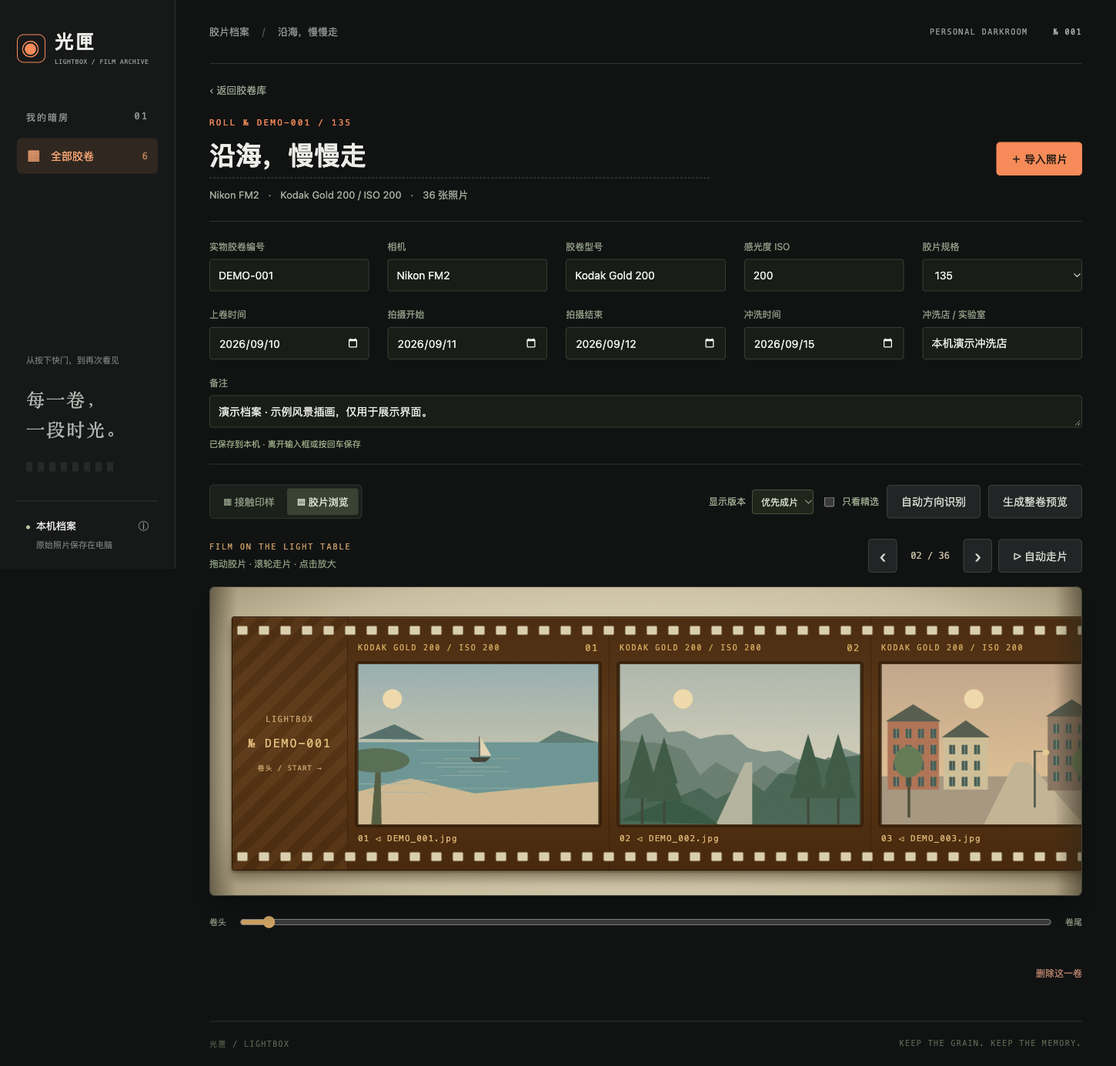
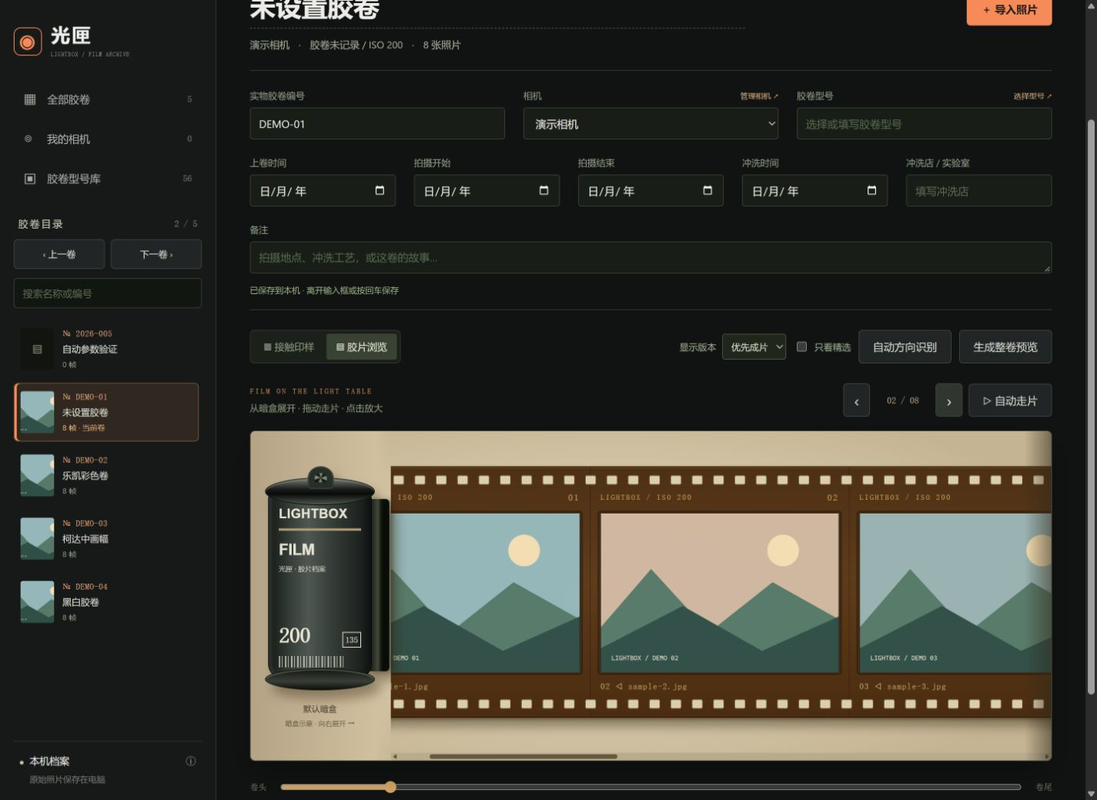
Link film browsing to illustrated cartridges and simplify roll metadata

diff --git a/public/app.js b/public/app.js
@@ -4,6 +4,7 @@ import { setupRollNavigation } from './roll-navigation.js';
 import { setupCameras } from './cameras.js';
 import {setupFilms} from './films.js';
 import {filmStocks} from './film-catalog.mjs';
+import {renderFilmCanister,filmPresentation} from './film-canister.mjs';
 import { sheetLayout, framePosition } from './sheet-layout.mjs';
 const $ = s => document.querySelector(s);
 let automaticOrientation=true;
@@ -36,7 +37,7 @@ function renderLibrary() {
   const rolls = library.rolls.filter(r => [r.title, r.camera, r.film, r.number, r.notes].join(' ').toLowerCase().includes(query));
   $('#collection-title').textContent = '全部胶卷';
   $('#visible-count').textContent = rolls.length + ' 卷';
-  $('#roll-grid').innerHTML = rolls.map(r => `<button class="roll-card" data-roll="${r.id}" aria-label="打开胶卷 ${esc(r.title)}"><div class="roll-cover">${r.photos.length ? `<img src="${imageUrl(r.photos[0])}" alt="${esc(r.title)}的封面" loading="lazy">` : `<span class="cover-empty">${esc(r.format || 'ROLL')}</span>`}<span class="cover-count">${String(r.photos.length).padStart(2,'0')} FRAMES</span></div><div class="card-body"><div class="card-top"><span class="serial">№ ${esc(r.number)}</span></div><h3>${esc(r.title)}</h3><p class="card-description">${esc(r.camera || '相机待补全')}<br>${esc(r.film || '胶卷型号待补全')}${r.iso ? ` / ISO ${esc(r.iso)}` : ''}</p><div class="card-date"><span>${esc(period(r))}</span><span>${esc(r.format || '规格待补全')}</span></div></div></button>`).join('');
+  $('#roll-grid').innerHTML = rolls.map(r => {const filmInfo=filmPresentation(r);return `<button class="roll-card" data-roll="${r.id}" aria-label="打开胶卷 ${esc(r.title)}"><div class="roll-cover">${r.photos.length ? `<img src="${imageUrl(r.photos[0])}" alt="${esc(r.title)}的封面" loading="lazy">` : `<span class="cover-empty">${esc(filmInfo.format || 'ROLL')}</span>`}<span class="cover-count">${String(r.photos.length).padStart(2,'0')} FRAMES</span></div><div class="card-body"><div class="card-top"><span class="serial">№ ${esc(r.number)}</span></div><h3>${esc(r.title)}</h3><p class="card-description">${esc(r.camera || '相机待补全')}<br>${esc(r.film || '胶卷型号待补全')}${filmInfo.iso ? ` / ISO ${esc(filmInfo.iso)}` : ''}</p><div class="card-date"><span>${esc(period(r))}</span><span>${esc(filmInfo.format || '规格待补全')}</span></div></div></button>`;}).join('');
   $('#library-empty').hidden = library.rolls.length > 0;
   if (library.rolls.length && !rolls.length) $('#roll-grid').innerHTML = '<p class="muted">没有匹配的胶卷。试试其他关键词或分类。</p>';
   $('#film-options').innerHTML = [...new Set([...filmStocks.map(f=>f.name),...library.rolls.map(r => r.film).filter(Boolean)])].map(v => `<option value="${esc(v)}"></option>`).join('');
@@ -54,9 +55,10 @@ function showCameras() {
 }
 function visiblePhotos() { return current()?.photos.filter(p => !$('#star-filter').checked || p.starred) || []; }
 function renderArchiveLabels(r) {
-  $('#breadcrumb').textContent=r.title;$('#roll-number').textContent=`ROLL № ${r.number} / ${r.format||'规格待补全'}`;
+  const filmInfo=filmPresentation(r);
+  $('#breadcrumb').textContent=r.title;$('#roll-number').textContent=`ROLL № ${r.number} / ${filmInfo.format||'规格待补全'}`;
   $('#roll-title').setAttribute('aria-label',r.title);
-  $('#roll-summary').innerHTML=`<span>${esc(r.camera||'相机未记录')}</span><span>·</span><span>${esc(r.film||'胶卷未记录')}${r.iso?' / ISO '+esc(r.iso):''}</span><span>·</span><span>${r.photos.length} 张照片</span>`;
+  $('#roll-summary').innerHTML=`<span>${esc(r.camera||'相机未记录')}</span><span>·</span><span>${esc(r.film||'胶卷未记录')}${filmInfo.iso?' / ISO '+esc(filmInfo.iso):''}</span><span>·</span><span>${r.photos.length} 张照片</span>`;
 }
 function renderDetail() {
   const r = current(); if (!r) return;
@@ -67,13 +69,14 @@ function renderDetail() {
 }
 function renderPhotos() {
   const r = current(); if (!r) return;
-  const photos = visiblePhotos();
+  const photos = visiblePhotos(),filmInfo=filmPresentation(r);
+  renderFilmCanister($('.film-stage'),r);
   $('#photo-empty').hidden = r.photos.length > 0;
   $('#photo-hint').hidden = !r.photos.length || view !== 'grid';
   $('#photo-grid').hidden = view !== 'grid' || !r.photos.length;
   $('#film-view').hidden = view !== 'film' || !r.photos.length;
   $('#photo-grid').innerHTML = photos.map((p, i) => `<article class="photo-card" draggable="${!uploadBusy}" data-photo="${p.id}" style="animation-delay:${Math.min(i,10)*25}ms"><button class="photo-open" data-open="${p.id}" aria-label="查看第 ${r.photos.indexOf(p)+1} 帧 ${esc(p.name)}"><img src="${imageUrl(p)}" alt="${esc(p.name)}" loading="lazy"></button><div class="photo-caption"><span>${String(r.photos.indexOf(p)+1).padStart(2,'0')} / ${esc(p.name)}</span><button class="star-button ${p.starred ? 'selected' : ''}" data-star="${p.id}" aria-label="${p.starred ? '取消' : '设为'}精选 ${esc(p.name)}" aria-pressed="${p.starred}">${p.starred ? '★' : '☆'}</button></div></article>`).join('');
-  $('#film-strip').innerHTML = `<div class="film-ribbon"><div class="film-leader" aria-hidden="true"><span>LIGHTBOX</span><strong>№ ${esc(r.number)}</strong><small>卷头 / START →</small></div>${photos.map(p => `<div class="film-frame" data-frame="${r.photos.indexOf(p)+1}"><span class="film-edge-label">${esc(r.film || 'LIGHTBOX')}${r.iso ? ' / ISO ' + esc(r.iso) : ''} <b>${String(r.photos.indexOf(p)+1).padStart(2,'0')}</b></span><button data-open="${p.id}" aria-label="放大第 ${r.photos.indexOf(p)+1} 帧 ${esc(p.name)}"><img src="${imageUrl(p)}" alt="${esc(p.name)}" loading="lazy" draggable="false"></button><span class="film-frame-caption">${String(r.photos.indexOf(p)+1).padStart(2,'0')} ◁ ${esc(p.name)}</span></div>`).join('')}<div class="film-leader film-tail" aria-hidden="true"><span>LIGHTBOX</span><strong>← END</strong><small>${photos.length} FRAMES</small></div></div>`;
+  $('#film-strip').innerHTML = `<div class="film-ribbon"><div class="film-leader" aria-hidden="true"><span>LIGHTBOX</span><strong>№ ${esc(r.number)}</strong><small>卷头 / START →</small></div>${photos.map(p => `<div class="film-frame" data-frame="${r.photos.indexOf(p)+1}"><span class="film-edge-label">${esc(r.film || 'LIGHTBOX')}${filmInfo.iso ? ' / ISO ' + esc(filmInfo.iso) : ''} <b>${String(r.photos.indexOf(p)+1).padStart(2,'0')}</b></span><button data-open="${p.id}" aria-label="放大第 ${r.photos.indexOf(p)+1} 帧 ${esc(p.name)}"><img src="${imageUrl(p)}" alt="${esc(p.name)}" loading="lazy" draggable="false"></button><span class="film-frame-caption">${String(r.photos.indexOf(p)+1).padStart(2,'0')} ◁ ${esc(p.name)}</span></div>`).join('')}<div class="film-leader film-tail" aria-hidden="true"><span>LIGHTBOX</span><strong>← END</strong><small>${photos.length} FRAMES</small></div></div>`;
   $('#film-seek').max = Math.max(0, photos.length - 1); $('#film-seek').disabled = !photos.length;
   requestAnimationFrame(updateFilmPosition);
   if (!photos.length && r.photos.length) { $('#photo-grid').innerHTML = '<p class="muted">还没有精选照片，点击照片下方的星标来添加。</p>'; $('#film-strip').innerHTML = '<p class="muted">这一卷还没有精选照片。</p>'; }
@@ -84,12 +87,15 @@ function filmFrames() { return [...$('#film-strip').querySelectorAll('.film-fram
 function nearestFilmIndex() {
   const strip = $('#film-strip'), ribbon = strip.querySelector('.film-ribbon'), frames = filmFrames();
   if (!frames.length) return 0;
+  if(strip.scrollLeft<=1)return 0;
+  if(strip.scrollLeft>=strip.scrollWidth-strip.clientWidth-1)return frames.length-1;
   const center = strip.scrollLeft + strip.clientWidth / 2 - ribbon.offsetLeft;
   return frames.reduce((best, frame, i) => Math.abs(frame.offsetLeft + frame.offsetWidth / 2 - center) < Math.abs(frames[best].offsetLeft + frames[best].offsetWidth / 2 - center) ? i : best, 0);
 }
 function updateFilmPosition() {
   const frames = filmFrames(), index = nearestFilmIndex(), r = current();
   if (!r) return;
+  $('.film-stage').style.setProperty('--spool-turn',`${$('#film-strip').scrollLeft / 5}deg`);
   $('#film-position').textContent = frames.length ? `${String(frames[index].dataset.frame).padStart(2,'0')} / ${String(r.photos.length).padStart(2,'0')}` : '无精选照片';
   $('#film-seek').value = index; $('#film-seek').setAttribute('aria-valuetext', frames.length ? `第 ${frames[index].dataset.frame} 帧` : '无照片');
   $('#film-prev').disabled = !frames.length || index === 0; $('#film-next').disabled = !frames.length || index === frames.length - 1;
@@ -178,7 +184,7 @@ function confirmAction(title, description) {
 function loadImage(src) { return new Promise((resolve,reject) => { const img = new Image(); img.onload = () => resolve(img); img.onerror = () => reject(new Error('照片读取失败，请重新载入后再导出。')); img.src = src; }); }
 function fitText(ctx, text, max) { let t = text; while (ctx.measureText(t).width > max && t.length) t = t.slice(0,-1); return t === text ? t : t + '…'; }
 async function buildSheet() {
-  const token = ++sheetGeneration, r = current(); if (!r) return;
+  const token = ++sheetGeneration, r = current(); if (!r) return; const filmInfo=filmPresentation(r);
   const format = $('#sheet-format').value, light = $('#sheet-theme').value === 'light';
   $('#sheet-preview').classList.toggle('print-format', format !== 'free');
   $('#sheet-format-hint').textContent = format === '3:2' ? '3:2 横向，适合常规照片打印；照片完整显示，留出四周边距。' : format === '16:9' ? '16:9 横向，适合宽幅画面；打印时请选择同样比例或保留白边。' : '高度随照片数量调整，适合查阅整卷接触印样。';
@@ -191,7 +197,7 @@ async function buildSheet() {
     const bg = light ? '#f3f2ec' : '#101310', fg = light ? '#252b23' : '#e5e9dc', muted = light ? '#687260' : '#a4b392', gold = light ? '#78663e' : '#c3ab6d';
     ctx.fillStyle = bg; ctx.fillRect(0,0,width,height); ctx.fillStyle = gold; ctx.font = '22px monospace'; ctx.fillText('LIGHTBOX / CONTACT SHEET',margin,65); ctx.textAlign = 'right'; ctx.fillText(`ROLL № ${r.number} / ${r.photos.length} FRAMES`,width-margin,65); ctx.textAlign='left';
     ctx.fillStyle = fg; ctx.font = `bold ${fixed ? 48 : 58}px sans-serif`; ctx.fillText(fitText(ctx,r.title,width-margin*2),margin,fixed ? 122 : 150);
-    ctx.fillStyle = muted; ctx.font = `${fixed ? 23 : 27}px sans-serif`; ctx.fillText(fitText(ctx,`${r.camera || '相机未记录'}  /  ${r.film || '胶卷未记录'}${r.iso ? '  /  ISO ' + r.iso : ''}  /  ${r.format || '规格待补全'}`,width-margin*2),margin,fixed ? 165 : 204);
+    ctx.fillStyle = muted; ctx.font = `${fixed ? 23 : 27}px sans-serif`; ctx.fillText(fitText(ctx,`${r.camera || '相机未记录'}  /  ${r.film || '胶卷未记录'}${filmInfo.iso ? '  /  ISO ' + filmInfo.iso : ''}  /  ${filmInfo.format || '规格待补全'}`,width-margin*2),margin,fixed ? 165 : 204);
     ctx.font = '22px sans-serif'; ctx.fillText(fitText(ctx,`${r.shotStart || r.shotEnd ? '拍摄 ' : ''}${period(r)}    上卷 ${date(r.loadedAt)}    冲洗 ${date(r.developedAt)}${r.lab ? '    '+r.lab : ''}`,width-margin*2),margin,fixed ? 201 : 251);
     for (let i=0;i<r.photos.length;i++) {
       if (token !== sheetGeneration) return;
@@ -226,6 +232,7 @@ $('#film-prev').onclick = () => scrollFilmTo(nearestFilmIndex() - 1);
 $('#film-next').onclick = () => scrollFilmTo(nearestFilmIndex() + 1);
 $('#film-seek').oninput = e => scrollFilmTo(Number(e.target.value), true, false);
 $('#film-strip').addEventListener('scroll', updateFilmPosition, {passive:true});
+new ResizeObserver(()=>{if(view==='film')updateFilmPosition();}).observe($('#film-strip'));
 $('#film-strip').addEventListener('keydown', e => { if(e.target!==e.currentTarget)return; if(['ArrowLeft','ArrowRight','Home','End'].includes(e.key)){e.preventDefault();scrollFilmTo(e.key==='Home'?0:e.key==='End'?filmFrames().length-1:nearestFilmIndex()+(e.key==='ArrowRight'?1:-1),true,e.key.startsWith('Arrow'));} });
 $('#play-film').onclick = playFilm; $('#film-strip').onwheel = e => { if(Math.abs(e.deltaY)>Math.abs(e.deltaX)) { e.preventDefault(); $('#film-strip').scrollLeft += e.deltaY; stopFilm(); } };
 let filmDrag = null, suppressFilmClick = false;

diff --git a/public/index.html b/public/index.html
@@ -43,8 +43,8 @@
           <label>实物胶卷编号<input name="number" required maxlength="160" placeholder="填写编号"></label>
           <label><span class="camera-field-heading">相机<button type="button" aria-label="管理我的相机" data-manage-cameras>管理相机 ↗</button></span><select name="camera" aria-label="相机" data-camera-select><option value="">暂未记录 · 选择相机</option></select></label>
           <label><span class="camera-field-heading">胶卷型号<button type="button" data-choose-film="inline" aria-label="选择当前胶卷型号">选择型号 ↗</button></span><input name="film" maxlength="160" placeholder="选择或填写胶卷型号" list="film-options"></label>
-          <label>感光度 ISO<input name="iso" inputmode="numeric" maxlength="160" placeholder="填写 ISO"></label>
-          <label>胶片规格<select name="format"><option value="">选择规格</option><option>135</option><option>120</option><option>110</option><option>大画幅</option><option>其他</option></select></label>
+          <input type="hidden" name="iso">
+          <input type="hidden" name="format">
         </div>
         <div class="film-record-preview" data-film-preview="inline" hidden></div>
         <div class="archive-fields archive-dates">
@@ -63,7 +63,7 @@
       <div id="import-progress" class="progress-wrap" hidden><span id="progress-label"></span><progress id="progress-bar" value="0" max="100"></progress></div>
       <div id="photo-empty" class="photo-empty"><div class="eyebrow">ADD YOUR SCANS</div><h2>导入这一卷的照片</h2><p>选择照片或把文件拖到这里，<br>按文件名自然排序，原始照片完整保留。</p><button class="secondary" id="empty-import">选择扫描照片</button><small>支持 TIFF、BMP、JPG、PNG、WebP、GIF，每张不超过 80 MB；THM 自动忽略</small></div>
       <div id="photo-grid" class="photo-grid"></div>
-      <div id="film-view" class="film-view" hidden><div class="film-control"><div><span class="film-mode-label">FILM ON THE LIGHT TABLE</span><span>拖动胶片 · 滚轮走片 · 点击放大</span></div><div class="button-group"><button id="film-prev" class="secondary" aria-label="前一帧胶片">‹</button><strong id="film-position" aria-live="polite">01 / 01</strong><button id="film-next" class="secondary" aria-label="后一帧胶片">›</button><button id="play-film" class="secondary">▷ 自动走片</button></div></div><div class="film-stage"><div id="film-strip" class="film-strip" tabindex="0" aria-label="横向胶片照片"></div></div><div class="film-scrubber"><span>卷头</span><input id="film-seek" type="range" min="0" max="0" value="0" step="1" aria-label="定位胶片帧"><span>卷尾</span></div></div>
+      <div id="film-view" class="film-view" hidden><div class="film-control"><div><span class="film-mode-label">FILM ON THE LIGHT TABLE</span><span>从暗盒展开 · 拖动走片 · 点击放大</span></div><div class="button-group"><button id="film-prev" class="secondary" aria-label="前一帧胶片">‹</button><strong id="film-position" aria-live="polite">01 / 01</strong><button id="film-next" class="secondary" aria-label="后一帧胶片">›</button><button id="play-film" class="secondary">▷ 自动走片</button></div></div><div class="film-stage"><div class="film-canister-mount"></div><div id="film-strip" class="film-strip" tabindex="0" aria-label="横向胶片照片"></div></div><div class="film-scrubber"><span>卷头</span><input id="film-seek" type="range" min="0" max="0" value="0" step="1" aria-label="定位胶片帧"><span>卷尾</span></div></div>
       <p id="photo-hint" class="photo-hint" hidden>点击照片放大 · 拖动照片调整帧序 · 星标保留精选</p>
       <button id="delete-roll" class="danger-text">删除这一卷</button>
     </section>
@@ -79,7 +79,7 @@
   </main>
   <input type="file" id="photo-input" multiple accept=".tif,.tiff,.bmp,.jpg,.jpeg,.png,.webp,.gif,image/tiff,image/bmp,image/jpeg,image/png,image/webp,image/gif" hidden>
   <dialog id="roll-dialog"><form id="roll-form"><div class="dialog-heading"><div><div class="eyebrow">ROLL INFORMATION</div><h2 id="form-title">新建胶卷档案</h2></div><button type="button" class="icon-button close-dialog" aria-label="关闭">×</button></div>
-    <div class="form-grid"><label class="full">胶卷名称 <span>*</span><input name="title" required maxlength="160" placeholder="例如：秋天的散步"></label><label>实物胶卷编号 <span>*</span><input name="number" required maxlength="160" placeholder="例如：2026-001"></label><label><span class="camera-field-heading">相机<button type="button" aria-label="管理我的相机" data-manage-cameras>登记 / 管理 ↗</button></span><select name="camera" aria-label="新胶卷相机" data-camera-select><option value="">暂未记录 · 选择相机</option></select></label><label><span class="camera-field-heading">胶卷型号<button type="button" data-choose-film="new" aria-label="选择新胶卷型号">选择型号 ↗</button></span><input name="film" maxlength="160" placeholder="选择或填写胶卷型号" list="film-options"></label><label>感光度 ISO<input name="iso" inputmode="numeric" placeholder="200" maxlength="160"></label><label>胶片规格<select name="format"><option value="">待补全</option><option>135</option><option>120</option><option>110</option><option>大画幅</option><option>其他</option></select></label><label>上卷时间<input name="loadedAt" type="date"></label><label>冲洗时间<input name="developedAt" type="date"></label><label>拍摄开始<input name="shotStart" type="date"></label><label>拍摄结束<input name="shotEnd" type="date"></label><label class="full">冲洗店 / 实验室<input name="lab" placeholder="这卷在哪里冲洗？" maxlength="160"></label><label class="full">备注<textarea name="notes" rows="3" maxlength="4000" placeholder="拍摄地点、冲洗工艺，或这卷的故事…"></textarea></label></div><div class="film-record-preview" data-film-preview="new" hidden></div><p id="form-error" role="alert" class="form-error"></p><div class="dialog-actions"><button type="button" class="secondary close-dialog">取消</button><button class="primary" type="submit" id="save-roll">保存档案</button></div>
+    <div class="form-grid"><label class="full">胶卷名称 <span>*</span><input name="title" required maxlength="160" placeholder="例如：秋天的散步"></label><label>实物胶卷编号 <span>*</span><input name="number" required maxlength="160" placeholder="例如：2026-001"></label><label><span class="camera-field-heading">相机<button type="button" aria-label="管理我的相机" data-manage-cameras>登记 / 管理 ↗</button></span><select name="camera" aria-label="新胶卷相机" data-camera-select><option value="">暂未记录 · 选择相机</option></select></label><label><span class="camera-field-heading">胶卷型号<button type="button" data-choose-film="new" aria-label="选择新胶卷型号">选择型号 ↗</button></span><input name="film" maxlength="160" placeholder="选择或填写胶卷型号" list="film-options"></label><input type="hidden" name="iso"><input type="hidden" name="format"><label>上卷时间<input name="loadedAt" type="date"></label><label>冲洗时间<input name="developedAt" type="date"></label><label>拍摄开始<input name="shotStart" type="date"></label><label>拍摄结束<input name="shotEnd" type="date"></label><label class="full">冲洗店 / 实验室<input name="lab" placeholder="这卷在哪里冲洗？" maxlength="160"></label><label class="full">备注<textarea name="notes" rows="3" maxlength="4000" placeholder="拍摄地点、冲洗工艺，或这卷的故事…"></textarea></label></div><div class="film-record-preview" data-film-preview="new" hidden></div><p id="form-error" role="alert" class="form-error"></p><div class="dialog-actions"><button type="button" class="secondary close-dialog">取消</button><button class="primary" type="submit" id="save-roll">保存档案</button></div>
   </form></dialog>
 <datalist id="film-options"></datalist>
   <dialog id="viewer-dialog" class="viewer-dialog"><div class="viewer-top"><span id="viewer-label"></span><button id="viewer-close" class="icon-button" aria-label="关闭照片">×</button></div><div class="viewer-image"><button id="viewer-prev" class="icon-button" aria-label="上一张">‹</button><img id="viewer-img" alt=""><button id="viewer-next" class="icon-button" aria-label="下一张">›</button></div><p id="viewer-error" role="status" class="muted"></p><div class="viewer-bottom"><div><span id="viewer-info"></span><label class="version-choice">查看版本<select id="viewer-version" aria-label="查看照片版本"></select></label></div><div class="button-group"><button id="viewer-star" class="secondary">☆ 精选</button><button id="viewer-rotate" class="secondary">↻ 旋转</button><a id="download-original" class="secondary" download>下载原图</a><button id="delete-photo" class="danger-text">删除照片</button></div></div></dialog>

diff --git a/public/style.css b/public/style.css
@@ -102,3 +102,38 @@ body.viewing-roll{--side:284px}
 .camera-form-hint{font-size:12px;line-height:1.8}.camera-dialog textarea{font-size:13px}.camera-dialog .form-grid{margin-top:24px}
 @media(max-width:1000px){.camera-grid{grid-template-columns:minmax(0,1fr)}.camera-overview{gap:22px;flex-wrap:wrap}.camera-overview>p{margin:0;width:100%}}
 @media(max-width:760px){.camera-overview{gap:14px;justify-content:space-between}.camera-overview strong{font-size:27px}.camera-overview span{font-size:10px}.camera-overview>div{gap:6px}.camera-card{padding:20px}.camera-card h2{font-size:22px}.camera-field-heading button{font-size:10px}.camera-dialog .form-grid input,.camera-dialog .form-grid select,.camera-dialog .form-grid textarea{font-size:16px}#camera-dialog .dialog-actions{position:sticky;bottom:-28px;background:#1c211af5;border-top:1px solid var(--border);padding-top:15px}}
+/* A fixed cartridge feeds the moving ribbon through its felt-lined mouth. */
+.archive-basics{grid-template-columns:repeat(3,minmax(0,1fr))}
+.film-stage{--canister-colour:#343d38;--canister-ink:#e8e4d3;--canister-accent:#b8a072;--spool-turn:0deg;--cartridge-space:184px;background:radial-gradient(ellipse at 45% 50%,#e9dfc3,#c4b493 85%);isolation:isolate}
+.film-stage:before{width:var(--cartridge-space);z-index:4;background:linear-gradient(90deg,#b5a385,#d0c09f 88%,transparent)}
+.film-stage .film-strip{margin-left:var(--cartridge-space);padding:46px 28px 46px 0;background:transparent;min-width:0;position:relative;z-index:1;scroll-padding-inline:15px}
+.film-stage .film-strip:before,.film-stage .film-strip:after{display:none}
+.film-stage .film-ribbon{border-radius:0 7px 7px 0;animation:cartridge-unroll .85s cubic-bezier(.16,.7,.24,1) both}
+.film-stage .film-leader:not(.film-tail){flex-basis:65px;width:65px;padding-inline:6px;letter-spacing:1px}
+.film-stage .film-leader:not(.film-tail)>span{writing-mode:vertical-rl}
+.film-stage .film-leader:not(.film-tail)>strong,.film-stage .film-leader:not(.film-tail)>small{display:none}
+.film-canister-mount{position:absolute;left:19px;top:50%;transform:translateY(-50%);width:164px;height:340px;z-index:5;pointer-events:none}
+.film-canister{position:relative;width:144px;height:302px;filter:drop-shadow(8px 12px 7px #35240e65)}
+.canister-body{position:absolute;inset:31px 4px 24px;border-radius:12px 12px 18px 18px;background:linear-gradient(90deg,#0009,transparent 20%,#fff2 38%,transparent 62%,#0009),var(--canister-colour);border:1px solid #0009;box-shadow:inset 3px 0 5px #fff2,inset -6px 0 9px #0005;color:var(--canister-ink);padding:20px 13px 13px;display:flex;flex-direction:column;overflow:hidden}
+.canister-brand{font:bold 17px/1.2 Arial,sans-serif;letter-spacing:.3px;border-bottom:3px solid var(--canister-accent);padding-bottom:9px;text-shadow:0 1px #fff2;overflow-wrap:anywhere}
+.canister-model{font:600 21px/1.15 Arial,sans-serif;margin-top:13px;letter-spacing:-.5px;overflow-wrap:anywhere}
+.canister-kind{font:9px/1.4 sans-serif;margin-top:7px;opacity:.85}
+.canister-rating{margin-top:auto;display:flex;align-items:baseline;justify-content:space-between;padding-top:12px;gap:3px}
+.canister-rating strong{font:700 28px/1 ui-monospace,monospace;letter-spacing:-1px}
+.canister-rating>span{font:11px ui-monospace,monospace;border:1px solid currentColor;padding:3px}
+.canister-barcode{height:15px;flex-shrink:0;margin-top:11px;background:repeating-linear-gradient(90deg,currentColor 0 2px,transparent 2px 4px,currentColor 4px 5px,transparent 5px 8px);opacity:.65;width:80%}
+.canister-cap,.canister-bottom{position:absolute;left:0;right:0;height:36px;border-radius:50%;background:linear-gradient(#777b76,#181b19 42%,#080b09 60%,#50544d);border:1px solid #0e130e;box-shadow:inset 0 2px #b9baa744;z-index:2}
+.canister-cap{top:15px}.canister-bottom{bottom:8px;height:29px;background:linear-gradient(#141813,#393e36 60%,#0c100b)}
+.canister-spindle{position:absolute;top:0;left:56px;width:34px;height:30px;z-index:3;border:2px solid #333b32;border-radius:50% 50% 5px 5px;background:repeating-conic-gradient(from var(--spool-turn),#151c16 0 45deg,#7d8376 45deg 90deg);box-shadow:inset 0 0 0 7px #272e26}
+.canister-mouth{position:absolute;right:-19px;top:43px;bottom:33px;width:25px;border-radius:0 5px 5px 0;background:linear-gradient(90deg,#161b16,#44483a 40%,#12170f 58%,#090d08 70%);box-shadow:4px 1px 6px #1d170e66;z-index:-1}
+.canister-description{display:block;text-align:center;color:#3c3527;font:11px/1.4 sans-serif;padding-top:9px;width:144px;overflow-wrap:anywhere}
+.canister-description small{display:block;color:#64583e;font:9px/1.8 sans-serif;margin-top:3px}
+.film-monochrome .film-ribbon{background:linear-gradient(#262823,#414038 45%,#24251e)}
+.film-medium-format .film-ribbon:before,.film-medium-format .film-ribbon:after{display:none}
+.film-monochrome .film-edge-label,.film-monochrome .film-frame-caption{color:#d1d0b9}
+.is-spool .canister-cap,.is-spool .canister-bottom{left:-7px;right:-7px;height:23px;border-radius:5px;background:linear-gradient(#5b6056,#151c14 40%,#353d2e);border:2px solid #20261e}
+.is-spool .canister-cap{top:23px}.is-spool .canister-bottom{bottom:11px}
+.is-spool .canister-body{border-radius:3px;inset-inline:12px}
+@keyframes cartridge-unroll{from{opacity:.3;transform:translateX(-170px)}to{opacity:1;transform:translateX(0)}}
+@media(max-width:760px){.archive-basics{grid-template-columns:repeat(2,minmax(0,1fr))}.archive-basics>label:last-of-type{grid-column:1/-1}.film-stage{--cartridge-space:116px}.film-stage .film-strip{padding-block:36px}.film-canister-mount{left:7px;width:108px;height:300px}.film-canister{width:100px;height:265px}.canister-body{padding:20px 8px 10px;inset-block:31px 24px}.canister-brand{font-size:13px;padding-bottom:7px}.canister-model{font-size:18px;margin-top:11px}.canister-kind{font-size:8px}.canister-rating strong{font-size:24px}.canister-rating>span{font-size:9px;padding:2px}.canister-spindle{left:35px;width:30px}.canister-mouth{right:-10px;width:17px}.canister-description{width:100px;font-size:10px}.canister-description small{font-size:8px}.film-stage .film-frame{flex-basis:260px;padding:55px 10px 52px}.film-stage .film-leader:not(.film-tail){flex-basis:35px;width:35px}.film-stage .film-leader:not(.film-tail)>span{font-size:8px}}
+@media(prefers-reduced-motion:reduce){.film-stage .film-ribbon{animation:none}.canister-spindle{background:#3b4438}.film-stage .film-strip{scroll-behavior:auto}}

diff --git a/public/films.js b/public/films.js
@@ -1,4 +1,5 @@
 import {filmStocks,filmKinds,filmBrands,filterFilmStocks,findFilmStock,filmSelection} from './film-catalog.mjs';
+import {filmDefaults,filmPresentation} from './film-canister.mjs';
 const $=s=>document.querySelector(s);
 const esc=value=>String(value??'').replace(/[&<>"']/g,c=>({'&':'&amp;','<':'&lt;','>':'&gt;','"':'&quot;',"'":'&#39;'}[c]));
 const image=stock=>`/film-images/${stock.id}.jpg?v=${stock.imageVersion||1}`;
@@ -36,7 +37,7 @@ export function setupFilms({getLibrary,getCurrent,applyInline,openNew,toast}) {
     const license=$('#film-selected-license');license.hidden=!f.imageLicense;if(f.imageLicense){license.href=f.imageLicenseUrl;license.textContent=f.imageLicense+' · 已缩放';}
     const format=$('#film-selected-format');format.innerHTML=f.formats.map(value=>`<option>${value}</option>`).join('');format.value=f.formats.includes(current.format)?current.format:f.formats.includes($('#film-format-filter').value)?$('#film-format-filter').value:f.formats.includes('135')?'135':f.formats[0];
     $('#film-selected-iso').innerHTML=(f.isoChoices||[f.iso]).map(value=>`<option value="${value}">${value}</option>`).join('');$('#film-selected-iso').value=String(f.iso);
-    $('#film-fill-iso').checked=!current.iso||String(current.iso)===String(f.iso);
+    $('#film-fill-iso').checked=!current.iso||findFilmStock(current.film)?.id!==f.id||String(current.iso)===String(f.iso);
     $('#film-selected-iso').disabled=!$('#film-fill-iso').checked;
     $('#film-iso-existing').textContent=current.iso?`当前已填 ${current.iso}；不勾选则保留。`:'当前未填，选用时可一并带入。';
     $('#film-apply').textContent=context.kind==='inline'?'用于当前胶卷':context.kind==='new'?'填入胶卷档案':'用此型号新建胶卷';
@@ -61,18 +62,21 @@ export function setupFilms({getLibrary,getCurrent,applyInline,openNew,toast}) {
       if(context.kind==='inline'){
         if(getCurrent()?.id!==context.rollId)throw new Error('当前胶卷已变化，请重新选择。');
         await applyInline(fields);dialog.close();toast('胶卷型号已保存');
-      } else if(context.kind==='new') {for(const [key,value] of Object.entries(fields))newForm.elements[key].value=value;dialog.close();renderPreviews();}
-      else {dialog.close();openNew(fields);renderPreviews();}
+      } else if(context.kind==='new') {for(const [key,value] of Object.entries(fields))newForm.elements[key].value=value;previousNewFilm=fields.film;dialog.close();renderPreviews();}
+      else {dialog.close();openNew(fields);previousNewFilm=fields.film;renderPreviews();}
     } catch(error){$('#film-picker-error').textContent=error.message;}
     finally{busy=false;$('#film-apply').disabled=!selected;}
   };
   function renderPreviews() {
     for(const [kind,form] of [['inline',inlineForm],['new',newForm]]) {
-      const target=document.querySelector(`[data-film-preview="${kind}"]`),name=form.elements.film.value,stock=findFilmStock(name);
+      const target=document.querySelector(`[data-film-preview="${kind}"]`),name=form.elements.film.value,stock=findFilmStock(name),filmInfo=filmPresentation(Object.fromEntries(new FormData(form)));
       target.hidden=!name;
-      target.innerHTML=stock?`<img src="${image(stock)}" data-film-image alt="${esc(stock.name)} 包装参考图"><span><strong>${esc(stock.name)}</strong><small>${filmKinds[stock.kind]} · ${esc(stock.process)} · 型号参考</small></span>`:'<span><small>自定义型号 · 保留你的原始填写，可随时从型号库选择。</small></span>';
+      target.innerHTML=stock?`<img src="${image(stock)}" data-film-image alt="${esc(stock.name)} 包装参考图"><span><strong>${esc(stock.name)}</strong><small>${filmKinds[stock.kind]} · ${esc(stock.process)} · ${esc(filmInfo.iso)} · ${esc(filmInfo.format)}</small></span>`:'<span><small>自定义型号 · 保留你的原始填写，可随时从型号库选择。</small></span>';
     }
   }
+  let previousNewFilm='';
+  newForm.addEventListener('input',event=>{if(event.target.name==='film'){for(const [key,value] of Object.entries(filmDefaults(event.target.value,previousNewFilm,Object.fromEntries(new FormData(newForm)))))newForm.elements[key].value=value;previousNewFilm=event.target.value;renderPreviews();}});
+  newForm.addEventListener('reset',()=>{previousNewFilm='';});
   for(const form of [newForm,inlineForm])form.addEventListener('input',event=>{if(['film','iso','format'].includes(event.target.name))renderPreviews();});
   return {renderPreviews,open};
 }

diff --git a/public/inline-archive.js b/public/inline-archive.js
@@ -1,3 +1,4 @@
+import {filmDefaults} from './film-canister.mjs';
 const fields=['title','number','camera','film','iso','format','loadedAt','shotStart','shotEnd','developedAt','lab','notes'];
 export function setupInlineArchive({getCurrent,save,onSaved}) {
   const form=document.querySelector('#roll-inline-form'),status=document.querySelector('#archive-save-status'),error=document.querySelector('#archive-save-error');
@@ -39,7 +40,9 @@ export function setupInlineArchive({getCurrent,save,onSaved}) {
   }
   function track(event) {
     const element=event.target;if(element.form!==form||!fields.includes(element.name)||!getCurrent())return;
-    const state=stateFor(getCurrent());state.values[element.name]=element.value;state.revision++;state.error='';
+    const state=stateFor(getCurrent());
+    if(element.name==='film')for(const [key,value] of Object.entries(filmDefaults(element.value,state.values.film,state.values))){state.values[key]=value;form.elements[key].value=value;}
+    state.values[element.name]=element.value;state.revision++;state.error='';
     if(element.validity.badInput)state.invalid.add(element.name);else state.invalid.delete(element.name);
     feedback(displayedId,state);
   }
@@ -49,7 +52,11 @@ export function setupInlineArchive({getCurrent,save,onSaved}) {
   detail.addEventListener('focusout',event=>{if(event.target.form===form)void commit(displayedId,drafts.get(displayedId));});
   detail.addEventListener('keydown',event=>{
     if(event.target.form===form&&event.key==='Enter'&&(event.target.tagName!=='TEXTAREA'||event.ctrlKey||event.metaKey)){event.preventDefault();event.target.blur();}
-    if(event.target.form===form&&event.key==='Escape'){event.preventDefault();const roll=getCurrent();event.target.value=roll[event.target.name]||'';track(event);event.target.blur();}
+    if(event.target.form===form&&event.key==='Escape'){
+      event.preventDefault();const roll=getCurrent();event.target.value=roll[event.target.name]||'';track(event);
+      if(event.target.name==='film')for(const key of ['iso','format']){form.elements[key].value=roll[key]||'';stateFor(roll).values[key]=roll[key]||'';}
+      event.target.blur();
+    }
   });
   form.addEventListener('submit',event=>{event.preventDefault();void commit(displayedId,drafts.get(displayedId));});
   async function applyFields(values) {

diff --git a/README.md b/README.md
@@ -1,6 +1,6 @@
 # 光匣 · FilmPhotoManager
 
-按胶卷整理冲洗后的电子照片，在本机浏览、归档和打印整卷接触印样。当前版本 **1.8.1**。
+按胶卷整理冲洗后的电子照片，在本机浏览、归档和打印整卷接触印样。当前版本 **1.9.0**。
 
 ## 界面与预览
 
@@ -20,7 +20,7 @@
 
 ### 连续胶片条
 
-在背光底台上横向拖动胶片；支持滚轮、键盘、逐帧按钮、定位滑杆与自动走片。
+在背光底台上从暗盒拉出胶片；暗盒的配色、品牌、型号与档案联动，未设置或未知型号使用默认暗盒。120 规格显示卷轴与无齿孔胶片。支持拖动、滚轮、键盘、逐帧按钮、定位滑杆与自动走片。
 
 ![连续胶片条：齿孔、帧号、卷头与横向浏览](docs/screenshots/film-strip.png)
 
@@ -48,10 +48,10 @@ npm start
 
 ## 已实现
 
-- **胶卷型号库**：56 款常见型号，覆盖 12 个品牌，按品牌、彩色 / 黑白 / 反转 / 特殊色彩、规格与 ISO / EI 筛选，支持中文别名和包装图片选择。新建胶卷、详情页均可选用；已有手填 ISO 默认保留，可勾选带入包装标注值。保留自定义型号，不自动改写历史档案。图片首次从列明来源加载后缓存在本机。
+- **胶卷型号库**：56 款常见型号，覆盖 12 个品牌，按品牌、彩色 / 黑白 / 反转 / 特殊色彩、规格与 ISO / EI 筛选，支持中文别名和包装图片选择。新建胶卷、详情页均可选用；更换型号默认带入标注的感光度与兼容规格，主档案不再单独显示 ISO、规格输入框；同一型号已有的曝光记录保留，选型面板可取消带入以保留自定义曝光。保留自定义型号，不自动改写历史档案。图片首次从列明来源加载后缓存在本机。
 - **相机预览图**：μ-II 35mm 定焦机身、Kiss III 同款 EOS 300 机身及 EF 50mm f/1.8 STM 镜头参考照片，附作者、来源和授权说明，随应用离线显示；可点图放大、手动选择参考图或上传自己的相机照片（JPG / PNG / WebP，8 MB 以内）。个人照片保存在本机，支持随档案备份。图片说明见 [署名与授权](public/assets/cameras/ATTRIBUTION.md)。
 - **我的相机**：登记机身、镜头、规格、编号、购入日期、使用状态和资料来源；新建胶卷与详情页可下拉选择，改名同步已关联胶卷，移除登记保留历史文字。提供可选的 Olympus μ-II 与 Canon EOS Kiss III + EF 50mm f/1.8 STM 官方资料模板，默认不会把模板当成个人器材。
-- **按卷归档**：记录名称、实物编号、相机、胶卷型号、ISO、规格、上卷时间、拍摄跨度、冲洗时间、冲洗店和备注。直接在胶卷页编辑并自动保存。
+- **按卷归档**：记录名称、实物编号、相机、胶卷型号、ISO、规格、上卷时间、拍摄跨度、冲洗时间、冲洗店和备注。直接在胶卷页编辑并自动保存；ISO 和规格随型号带入。
 - **导入扫描照片**：支持 TIFF、BMP、JPG、PNG、WebP 和 GIF，单张不超过 80 MB；批量文件夹导入、引用原目录或复制原图、重复文件跳过。
 - **重复副本识别**：每卷导入前进行完整文件 SHA-256 校验，跳过内容完全一致的副本，保留非副本名称和扫描原片；不同内容的成片版本仍保留，源目录不改动。
 - **扫描原片与成片关联**：使用 JPEG 的 XMP 原文件名匹配 TIFF / BMP，支持带日期前缀的原片重命名和跨后期目录关联，THM 辅助文件自动忽略；同一帧支持多个版本。
